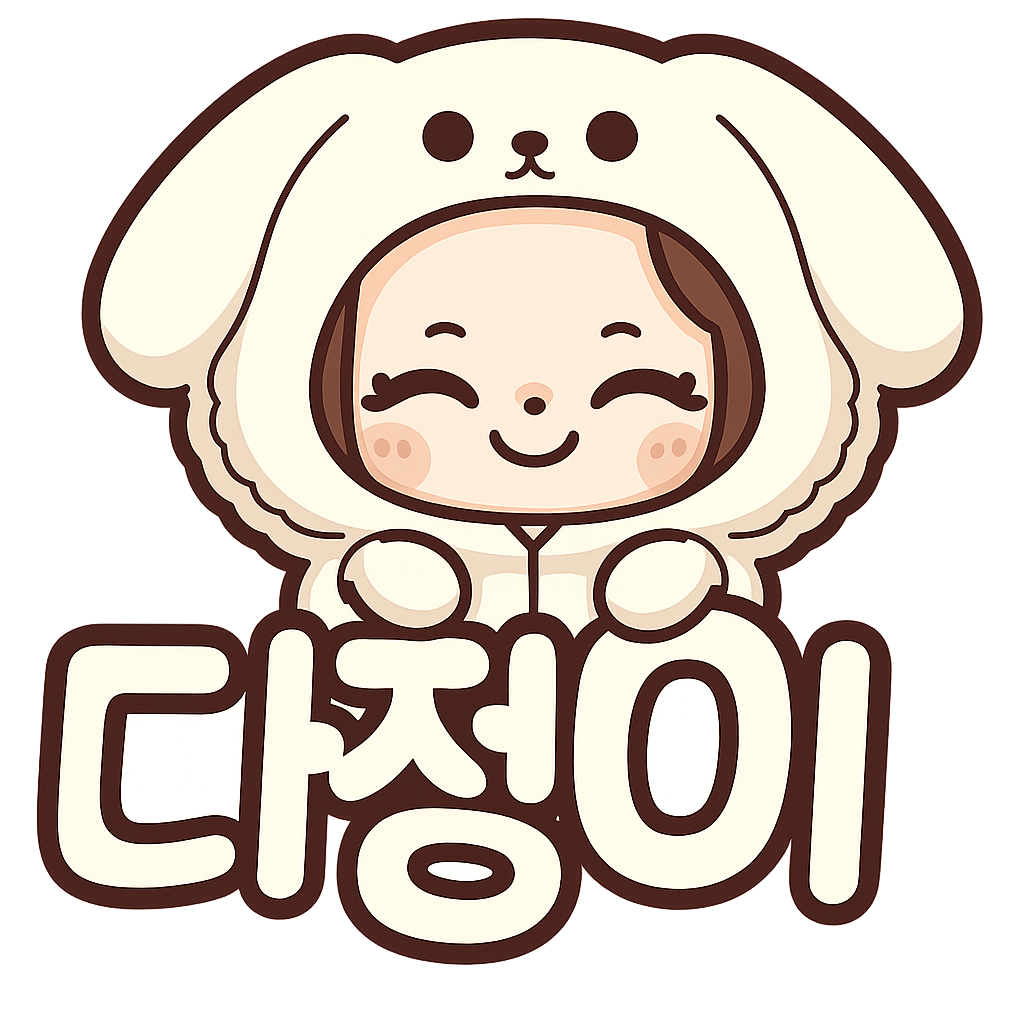
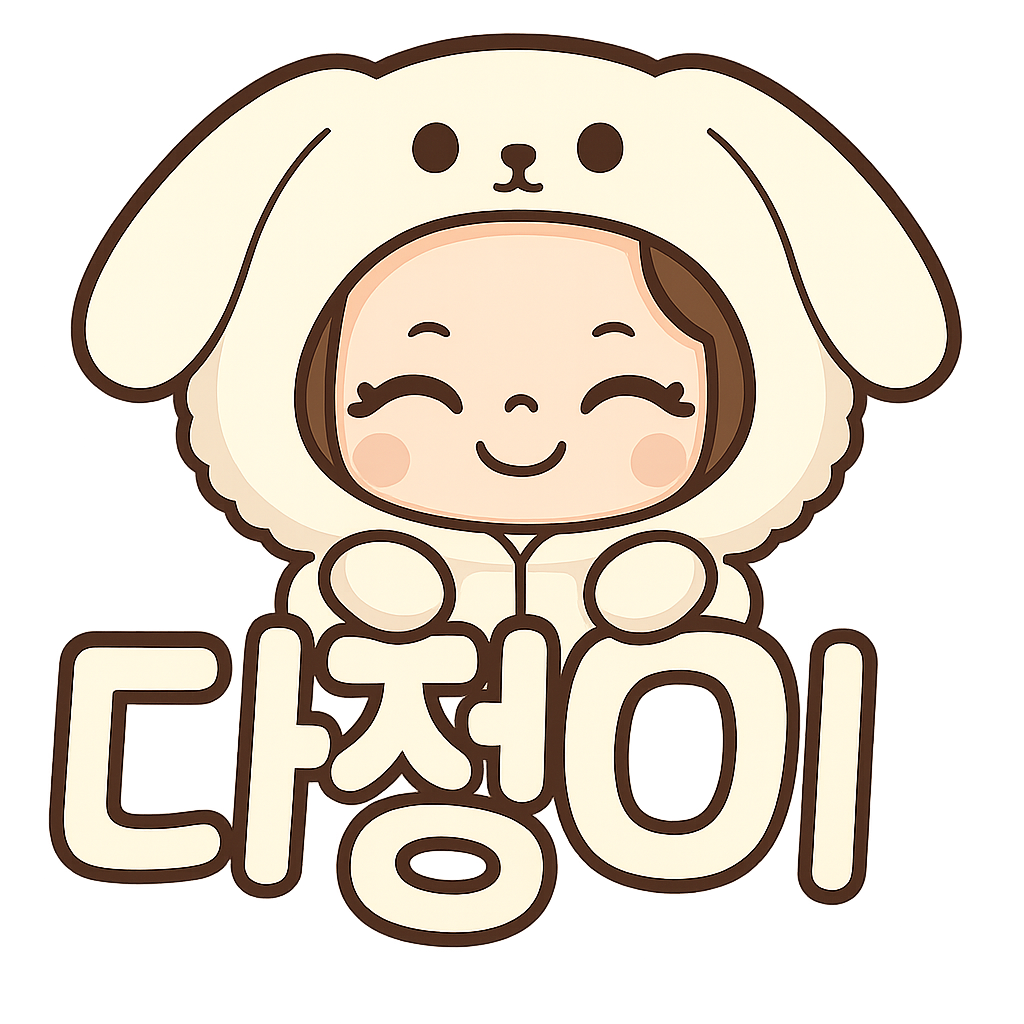
이미지

Changed region(s): [[0.0312, 0.0, 0.9688, 0.9688], [0.1562, 0.125, 0.1875, 0.1562]]

diff --git a/src/pages/app/MainPage.jsx b/src/pages/app/MainPage.jsx
@@ -1,15 +1,5 @@
 import React, { useState } from 'react';
-import {
-    Box,
-    Button,
-    Flex,
-    Text,
-    VStack,
-    HStack,
-    Image,
-    Divider,
-    IconButton,
-} from '@chakra-ui/react';
+import { Box, Button, Flex, Text, VStack, HStack, Image, Divider, IconButton } from '@chakra-ui/react';
 import { ChevronLeftIcon, ChevronRightIcon } from '@chakra-ui/icons';
 import { motion } from 'framer-motion';
 import DajeongLogo from '../../components/common/image.png';
@@ -25,12 +15,12 @@ export default function MainPage() {
 
     // 동적 크기 설정
     const imageSizes = ['120px', '150px', '190px']; // AI 모델 이미지 크기
-    const logoMaxWidths = ['250px', '300px', '360px']; // 로고 크기
+    const logoMaxWidths = ['200px', '250px', '310px']; // 로고 크기
     const arrowIconSizes = [6, 8, 10]; // 화살표 아이콘 크기
     const indicatorSizes = [
         { active: '10px', inactive: '6px' },
         { active: '12px', inactive: '8px' },
-        { active: '15px', inactive: '10px' }
+        { active: '15px', inactive: '10px' },
     ]; // 인디케이터 크기
     const cardPaddings = [8, 10, 14]; // 카드 패딩
     const settingButtonHeights = ['50px', '55px', '65px']; // 설정 버튼 높이
